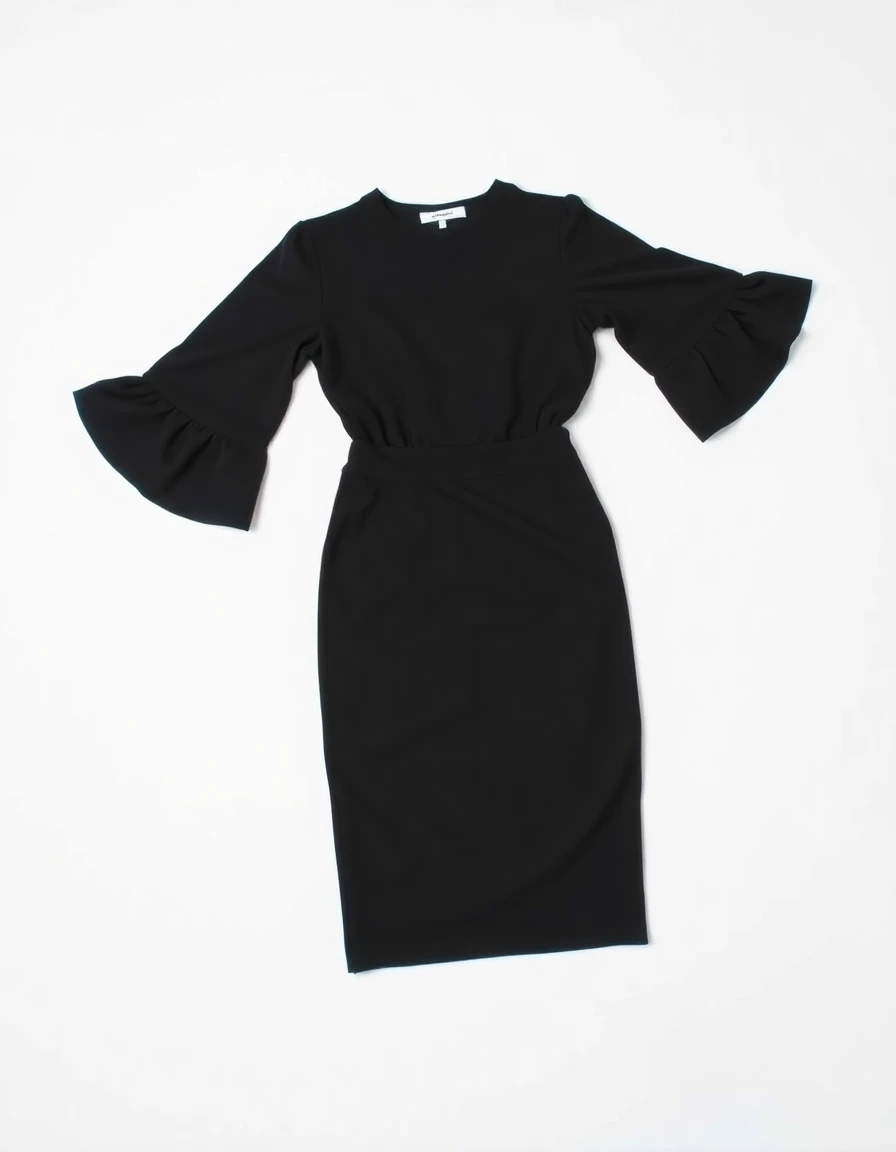
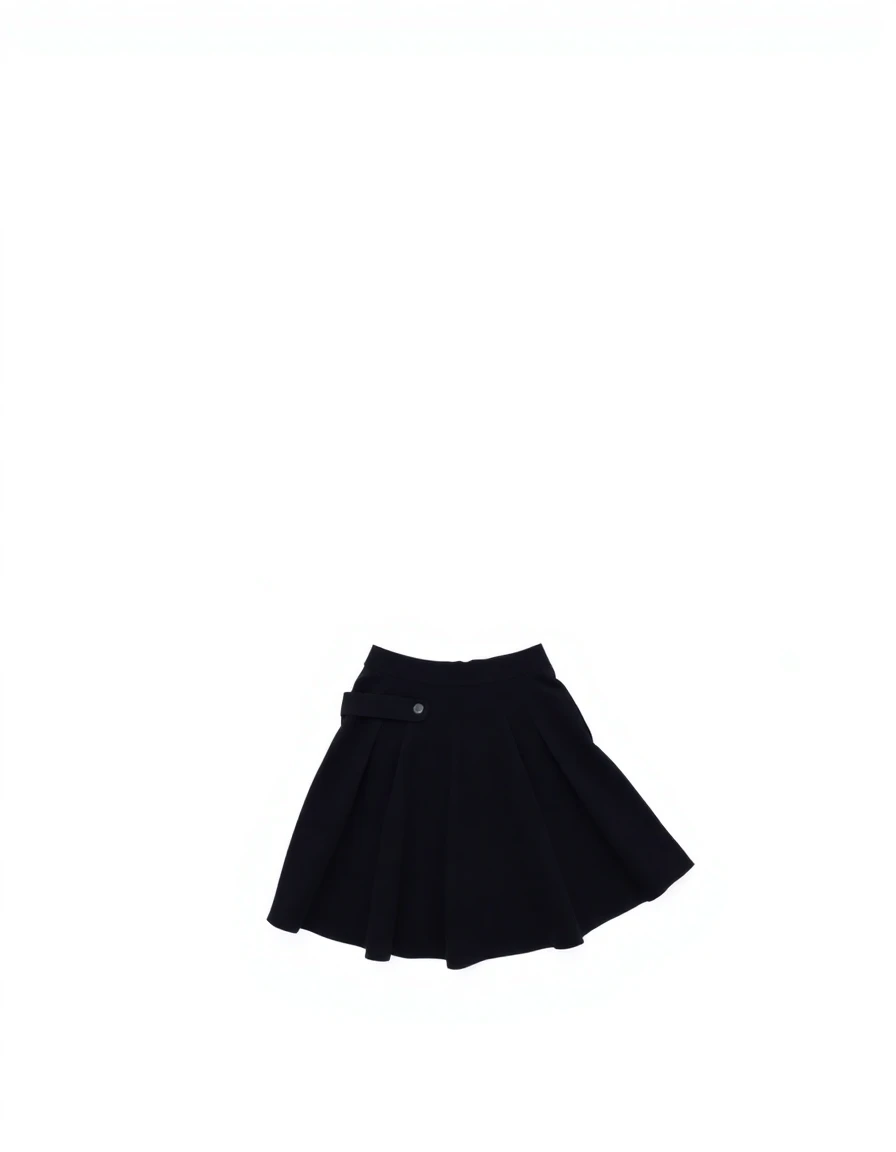
Add 9 skirt variations (mini/midi/maxi × black/beige/blue) + belts & hats
- Fixed black midi skirt showing a dress — regenerated with better prompt
- Added mini, midi, maxi skirts in black, beige, and navy blue (9 total)
- Added 4 belts: black leather, brown leather, tan woven, black chain
- Added 4 hats: black fedora, beige straw, black baseball cap, grey beanie
- All images AI-generated via Replicate Flux-schnell
- Added 'belt' and 'hat' category types throughout the app

Changed region(s): [[0.0625, 0.1562, 0.9062, 0.8438]]

diff --git a/src/pages/Wardrobe.tsx b/src/pages/Wardrobe.tsx
@@ -43,16 +43,16 @@ async function compressFileToBase64(file: File, maxDim: number): Promise<string>
   return dataUri;
 }
 
-const CATEGORIES: WardrobeItem['category'][] = ['top', 'bottom', 'footwear', 'outerwear', 'dress', 'bag', 'jewellery'];
+const CATEGORIES: WardrobeItem['category'][] = ['top', 'bottom', 'footwear', 'outerwear', 'dress', 'bag', 'jewellery', 'belt', 'hat'];
 
 const categoryLabel: Record<WardrobeItem['category'], string> = {
   top: 'Tops', bottom: 'Bottoms', footwear: 'Footwear', outerwear: 'Outerwear',
-  dress: 'Dresses', bag: 'Bags', jewellery: 'Jewellery',
+  dress: 'Dresses', bag: 'Bags', jewellery: 'Jewellery', belt: 'Belts', hat: 'Hats',
 };
 
 const CATEGORY_COLORS: Record<WardrobeItem['category'], string> = {
   top: '#F2F2F4', bottom: '#F2F2F4', footwear: '#F2F2F4', outerwear: '#F2F2F4',
-  dress: '#F2F2F4', bag: '#F2F2F4', jewellery: '#F2F2F4',
+  dress: '#F2F2F4', bag: '#F2F2F4', jewellery: '#F2F2F4', belt: '#F2F2F4', hat: '#F2F2F4',
 };
 
 // ── Basics ──────────────────────────────────────────────────────────────────
@@ -64,7 +64,8 @@ type ClothingShape =
   | 'sneaker' | 'ankle-boot' | 'loafer' | 'heel' | 'flat'
   | 'jacket' | 'coat' | 'blazer'
   | 'tote' | 'leather-tote' | 'crossbody'
-  | 'hoop' | 'necklace' | 'stud';
+  | 'hoop' | 'necklace' | 'stud'
+  | 'belt' | 'hat';
 
 interface BasicItem {
   subcategory: string;
@@ -336,6 +337,17 @@ function makeClothingSVG(shape: ClothingShape, fill: string): string {
         <line x1="68"  y1="116" x2="68"  y2="100" stroke="${fill}" stroke-width="5" stroke-linecap="round"/>
         <line x1="132" y1="116" x2="132" y2="100" stroke="${fill}" stroke-width="5" stroke-linecap="round"/>`;
       break;
+    case 'belt':
+      inner = `
+        <rect x="20" y="115" width="160" height="30" rx="6" fill="${fill}" stroke="${sk}" stroke-width="1.5"/>
+        <rect x="82" y="108" width="36" height="44" rx="4" fill="none" stroke="${sk}" stroke-width="3"/>
+        <circle cx="100" cy="130" r="4" fill="${sk}"/>`;
+      break;
+    case 'hat':
+      inner = `
+        <ellipse cx="100" cy="170" rx="80" ry="16" fill="${fill}" stroke="${sk}" stroke-width="1.5"/>
+        <path d="M50,170 Q50,90 100,80 Q150,90 150,170" fill="${fill}" stroke="${sk}" stroke-width="1.5"/>`;
+      break;
     default:
       inner = `<circle cx="100" cy="130" r="60" fill="${fill}" stroke="${sk}" stroke-width="1.5"/>`;
   }
@@ -360,7 +372,15 @@ const BASICS: BasicItem[] = [
   { category: 'bottom', subcategory: 'straight jeans',   color: 'dark blue',  pattern: 'plain',   fit: 'regular',   tags: ['casual', 'classic'],        swatchColor: '#2C4A6E', svgShape: 'jeans',       imageUrl: '/basics/darkblue-straight-jeans.webp' },
   { category: 'bottom', subcategory: 'tailored trousers',color: 'black',      pattern: 'plain',   fit: 'slim',      tags: ['smart', 'work'],            swatchColor: '#1A1A1A', svgShape: 'trousers',    imageUrl: '/basics/black-tailored-trousers.webp' },
   { category: 'bottom', subcategory: 'chinos',           color: 'beige',      pattern: 'plain',   fit: 'regular',   tags: ['smart-casual', 'versatile'],swatchColor: '#C8B896', svgShape: 'trousers',    imageUrl: '/basics/beige-chinos.webp' },
-  { category: 'bottom', subcategory: 'midi skirt',       color: 'black',      pattern: 'plain',   fit: 'regular',   tags: ['elegant', 'versatile'],     swatchColor: '#1A1A1A', svgShape: 'midi-skirt',  imageUrl: '/basics/black-midi-skirt.webp' },
+  { category: 'bottom', subcategory: 'mini skirt',        color: 'black',      pattern: 'plain',   fit: 'regular',   tags: ['casual', 'trendy'],         swatchColor: '#1A1A1A', svgShape: 'midi-skirt',  imageUrl: '/basics/black-mini-skirt.webp' },
+  { category: 'bottom', subcategory: 'midi skirt',        color: 'black',      pattern: 'plain',   fit: 'regular',   tags: ['elegant', 'versatile'],     swatchColor: '#1A1A1A', svgShape: 'midi-skirt',  imageUrl: '/basics/black-midi-skirt.webp' },
+  { category: 'bottom', subcategory: 'maxi skirt',        color: 'black',      pattern: 'plain',   fit: 'regular',   tags: ['elegant', 'flowing'],       swatchColor: '#1A1A1A', svgShape: 'midi-skirt',  imageUrl: '/basics/black-maxi-skirt.webp' },
+  { category: 'bottom', subcategory: 'mini skirt',        color: 'beige',      pattern: 'plain',   fit: 'regular',   tags: ['casual', 'summer'],         swatchColor: '#D4C5A9', svgShape: 'midi-skirt',  imageUrl: '/basics/beige-mini-skirt.webp' },
+  { category: 'bottom', subcategory: 'midi skirt',        color: 'beige',      pattern: 'plain',   fit: 'regular',   tags: ['elegant', 'versatile'],     swatchColor: '#D4C5A9', svgShape: 'midi-skirt',  imageUrl: '/basics/beige-midi-skirt.webp' },
+  { category: 'bottom', subcategory: 'maxi skirt',        color: 'beige',      pattern: 'plain',   fit: 'regular',   tags: ['elegant', 'flowing'],       swatchColor: '#D4C5A9', svgShape: 'midi-skirt',  imageUrl: '/basics/beige-maxi-skirt.webp' },
+  { category: 'bottom', subcategory: 'mini skirt',        color: 'navy',       pattern: 'plain',   fit: 'regular',   tags: ['casual', 'classic'],        swatchColor: '#1B3060', svgShape: 'midi-skirt',  imageUrl: '/basics/blue-mini-skirt.webp' },
+  { category: 'bottom', subcategory: 'midi skirt',        color: 'navy',       pattern: 'plain',   fit: 'regular',   tags: ['elegant', 'versatile'],     swatchColor: '#1B3060', svgShape: 'midi-skirt',  imageUrl: '/basics/blue-midi-skirt.webp' },
+  { category: 'bottom', subcategory: 'maxi skirt',        color: 'navy',       pattern: 'plain',   fit: 'regular',   tags: ['elegant', 'flowing'],       swatchColor: '#1B3060', svgShape: 'midi-skirt',  imageUrl: '/basics/blue-maxi-skirt.webp' },
   // Footwear
   { category: 'footwear', subcategory: 'sneakers',       color: 'white',      pattern: 'plain',   fit: 'regular',   tags: ['casual', 'sporty'],         swatchColor: '#EFEFEF', svgShape: 'sneaker',     imageUrl: '/basics/white-sneakers.webp' },
   { category: 'footwear', subcategory: 'ankle boots',    color: 'black',      pattern: 'plain',   fit: 'regular',   tags: ['versatile', 'classic'],     swatchColor: '#1A1A1A', svgShape: 'ankle-boot',  imageUrl: '/basics/black-ankle-boots.webp' },
@@ -384,6 +404,16 @@ const BASICS: BasicItem[] = [
   { category: 'jewellery', subcategory: 'hoop earrings', color: 'gold',       pattern: 'plain',   fit: 'regular',   tags: ['classic', 'versatile'],     swatchColor: '#D4AF37', svgShape: 'hoop',        imageUrl: '/basics/gold-hoop-earrings.webp' },
   { category: 'jewellery', subcategory: 'chain necklace',color: 'silver',     pattern: 'plain',   fit: 'regular',   tags: ['minimal', 'classic'],       swatchColor: '#C0C0C0', svgShape: 'necklace',    imageUrl: '/basics/silver-chain-necklace.webp' },
   { category: 'jewellery', subcategory: 'stud earrings', color: 'gold',       pattern: 'plain',   fit: 'regular',   tags: ['minimal', 'everyday'],      swatchColor: '#D4AF37', svgShape: 'stud',        imageUrl: '/basics/gold-stud-earrings.webp' },
+  // Belts
+  { category: 'belt', subcategory: 'leather belt',       color: 'black',      pattern: 'plain',   fit: 'regular',   tags: ['classic', 'versatile'],     swatchColor: '#1A1A1A', svgShape: 'belt',     imageUrl: '/basics/black-leather-belt.webp' },
+  { category: 'belt', subcategory: 'leather belt',       color: 'brown',      pattern: 'plain',   fit: 'regular',   tags: ['classic', 'smart-casual'],  swatchColor: '#6B3A2A', svgShape: 'belt',     imageUrl: '/basics/brown-leather-belt.webp' },
+  { category: 'belt', subcategory: 'woven belt',         color: 'tan',        pattern: 'woven',   fit: 'regular',   tags: ['casual', 'summer'],         swatchColor: '#C4A882', svgShape: 'belt',     imageUrl: '/basics/tan-woven-belt.webp' },
+  { category: 'belt', subcategory: 'chain belt',         color: 'black',      pattern: 'plain',   fit: 'regular',   tags: ['elegant', 'trendy'],        swatchColor: '#2A2A2A', svgShape: 'belt',     imageUrl: '/basics/black-chain-belt.webp' },
+  // Hats
+  { category: 'hat', subcategory: 'fedora',              color: 'black',      pattern: 'plain',   fit: 'regular',   tags: ['classic', 'smart'],         swatchColor: '#1A1A1A', svgShape: 'hat',      imageUrl: '/basics/black-fedora.webp' },
+  { category: 'hat', subcategory: 'straw hat',           color: 'beige',      pattern: 'plain',   fit: 'regular',   tags: ['casual', 'summer'],         swatchColor: '#D4C5A9', svgShape: 'hat',      imageUrl: '/basics/beige-straw-hat.webp' },
+  { category: 'hat', subcategory: 'baseball cap',        color: 'black',      pattern: 'plain',   fit: 'regular',   tags: ['casual', 'sporty'],         swatchColor: '#1A1A1A', svgShape: 'hat',      imageUrl: '/basics/black-baseball-cap.webp' },
+  { category: 'hat', subcategory: 'beanie',              color: 'grey',       pattern: 'plain',   fit: 'regular',   tags: ['casual', 'winter'],         swatchColor: '#8A8A8A', svgShape: 'hat',      imageUrl: '/basics/grey-beanie.webp' },
 ];
 
 // Grouped by category for rendering
@@ -395,6 +425,8 @@ const BASICS_BY_CATEGORY: { category: WardrobeItem['category']; label: string; i
   { category: 'dress',     label: 'Dresses',   items: BASICS.filter(b => b.category === 'dress') },
   { category: 'bag',       label: 'Bags',      items: BASICS.filter(b => b.category === 'bag') },
   { category: 'jewellery', label: 'Jewellery', items: BASICS.filter(b => b.category === 'jewellery') },
+  { category: 'belt',      label: 'Belts',     items: BASICS.filter(b => b.category === 'belt') },
+  { category: 'hat',       label: 'Hats',      items: BASICS.filter(b => b.category === 'hat') },
 ];
 
 // ── Demo detections used when no API key is configured ──────────────────────

diff --git a/src/components/MultiItemReview.tsx b/src/components/MultiItemReview.tsx
@@ -3,10 +3,11 @@ import { Check, X, Pencil, ChevronUp, ImagePlus } from 'lucide-react';
 import type { DetectedItem, WardrobeItem } from '../types';
 import { genId, fileToBase64 } from '../store';
 
-const CATEGORIES: WardrobeItem['category'][] = ['top', 'bottom', 'footwear', 'outerwear', 'dress', 'bag', 'jewellery'];
+const CATEGORIES: WardrobeItem['category'][] = ['top', 'bottom', 'footwear', 'outerwear', 'dress', 'bag', 'jewellery', 'belt', 'hat'];
 const CAT_LABELS: Record<WardrobeItem['category'], string> = {
   top: 'Top', bottom: 'Bottom', footwear: 'Footwear',
   outerwear: 'Outerwear', dress: 'Dress', bag: 'Bag', jewellery: 'Jewellery',
+  belt: 'Belt', hat: 'Hat',
 };
 
 // ── Confidence helpers ──────────────────────────────────────────────────────

diff --git a/src/types.ts b/src/types.ts
@@ -1,7 +1,7 @@
 export interface WardrobeItem {
   id: string;
   imageUrl: string;
-  category: 'top' | 'bottom' | 'footwear' | 'outerwear' | 'jewellery' | 'bag' | 'dress';
+  category: 'top' | 'bottom' | 'footwear' | 'outerwear' | 'jewellery' | 'bag' | 'dress' | 'belt' | 'hat';
   subcategory: string;
   color: string;
   pattern: string;
